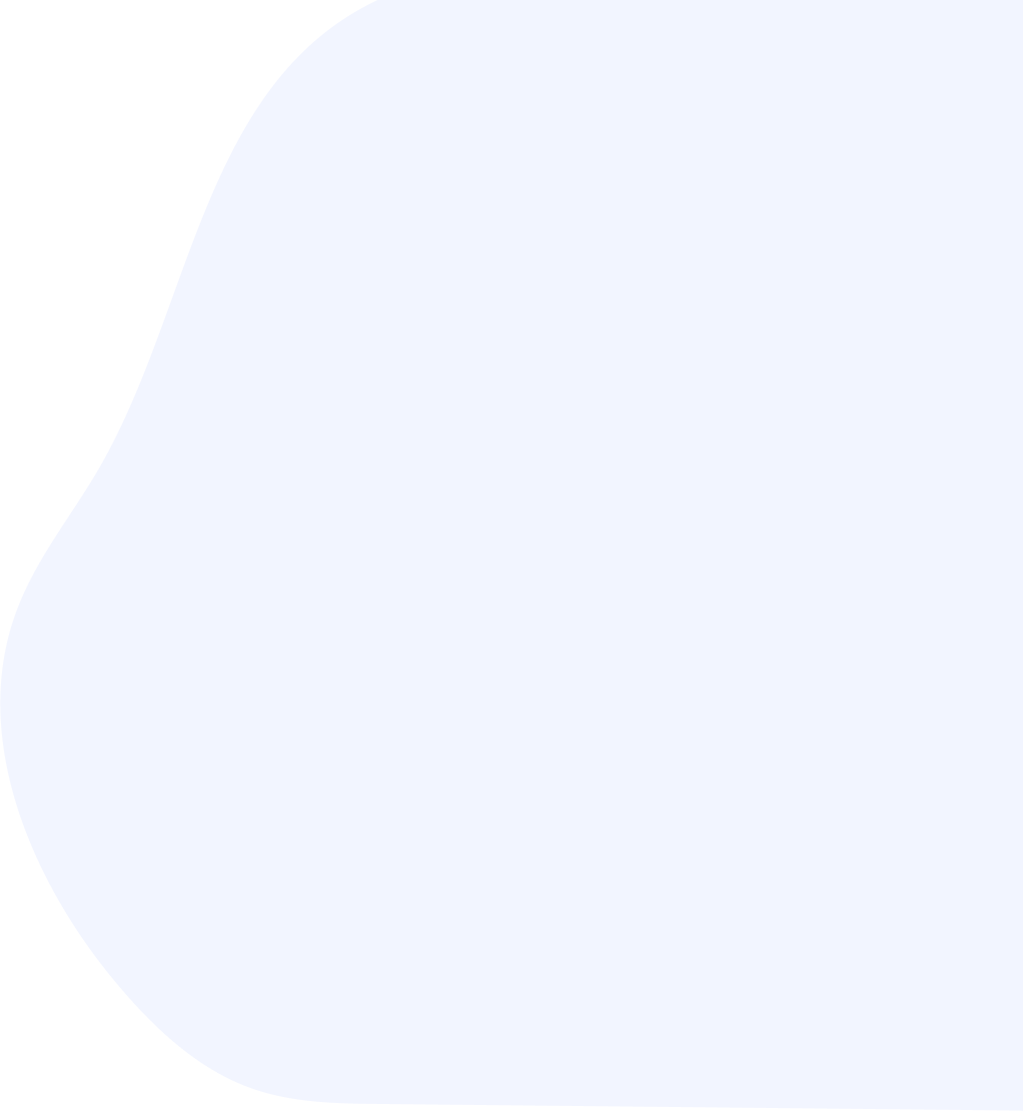
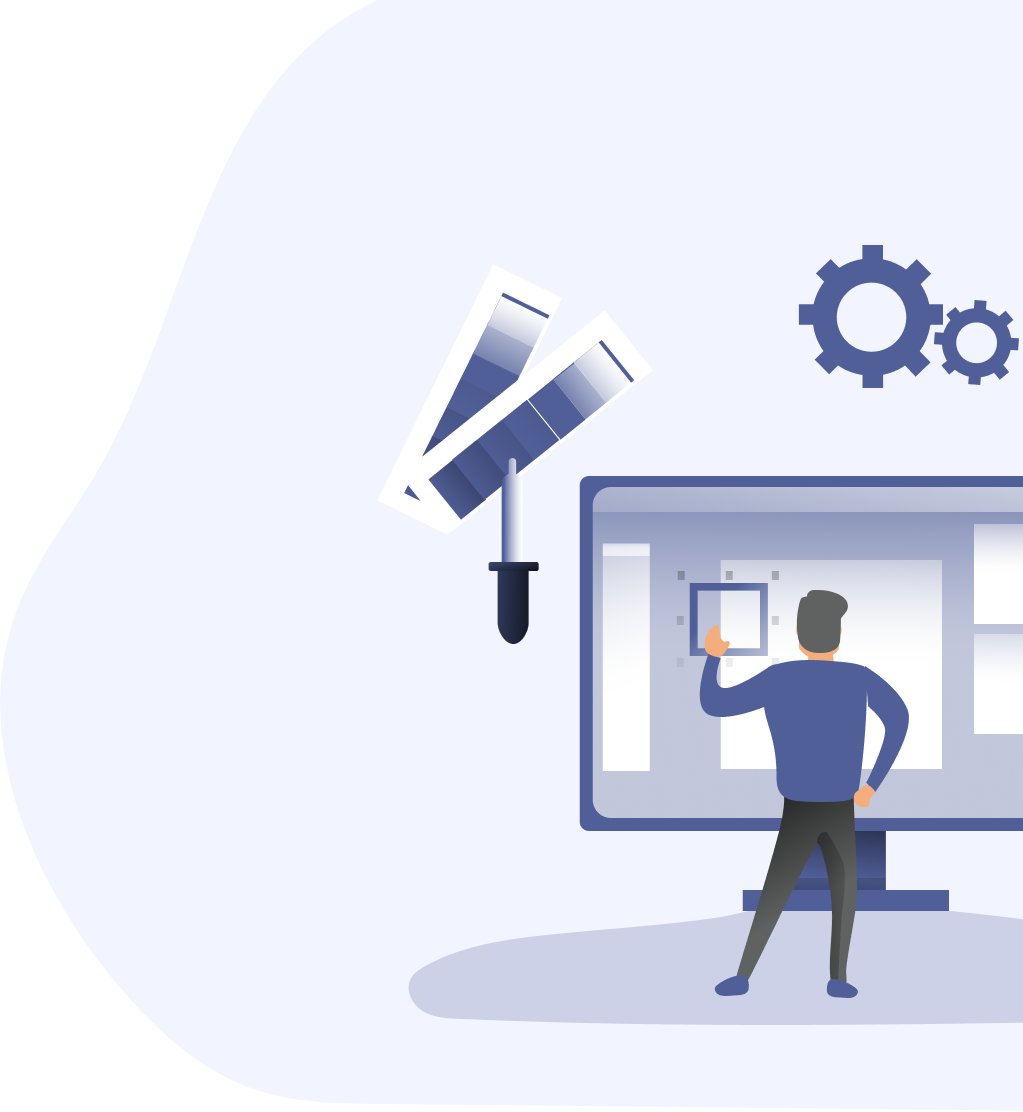
update on the section one and public section

Changed region(s): [[0.3939, 0.2446, 1.0, 0.9478], [0.7576, 0.214, 1.0, 0.3669]]

diff --git a/src/Components/Section1.jsx b/src/Components/Section1.jsx
@@ -3,7 +3,7 @@ import React from 'react'
 const Section1 = () => {
   return (
     <>
-    <section>
+    <section className='sec-1'>
         <div className="txt m-14">
             <h1 className='font-medium text-3xl'>
             Light, Fast & Powerful
@@ -12,9 +12,30 @@ const Section1 = () => {
             Lorem ipsum dolor sit amet, consectetuer adipiscing elit. Aenean commodo
             <br /> ligula eget dolor. Aenean massa. Cum sociis natoque penatibus et magnis
             <br /> dis parturient montes, nascetur ridiculus <br /> 
-mus. Donec quam felis, ultricies nec, pellentesque eu, pretium quis, sem.
-<br /> Nulla consequat massa quis enim.
+              mus. Donec quam felis, ultricies nec, pellentesque eu, pretium quis, sem.
+              <br /> Nulla consequat massa quis enim.
             </h4>
+        </div>
+        <div className="icon-grp mt-4 m-14 ">
+          <div className="grp flex space-x-10">
+          <div className="one">
+            <img src='Left.png' />
+            <span>
+              <b>Title Goes Here</b><br />
+              <small>Lorem ipsum dolor sit amet, consectetuer <br />
+               adipiscing elit. Aenean commodo ligula eget <br /> dolor. </small>
+            </span>
+          </div>
+
+          <div className="one">
+            <img src='Left.png' />
+            <span>
+              <b>Title Goes Here</b><br />
+              <small>Lorem ipsum dolor sit amet, consectetuer <br />
+               adipiscing elit. Aenean commodo ligula eget <br /> dolor. </small>
+            </span>
+          </div>
+          </div>
         </div>
     </section>
     </>

diff --git a/dist/output.css b/dist/output.css
@@ -1344,6 +1344,12 @@ video {
   justify-items: stretch;
 }
 
+.space-x-10 > :not([hidden]) ~ :not([hidden]) {
+  --tw-space-x-reverse: 0;
+  margin-right: calc(2.5rem * var(--tw-space-x-reverse));
+  margin-left: calc(2.5rem * calc(1 - var(--tw-space-x-reverse)));
+}
+
 .space-x-2 > :not([hidden]) ~ :not([hidden]) {
   --tw-space-x-reverse: 0;
   margin-right: calc(0.5rem * var(--tw-space-x-reverse));
@@ -1903,6 +1909,10 @@ video {
   padding: 0.25rem;
 }
 
+.p-14 {
+  padding: 3.5rem;
+}
+
 .p-4 {
   padding: 1rem;
 }
@@ -2435,8 +2445,26 @@ video {
 
 header {
   background: url(Path.png);
-  background-size: 60%;
-  height: 40vh;
+  background-size: 70%;
+  -o-object-fit: cover;
+     object-fit: cover;
+  -o-object-position: right;
+     object-position: right;
+  height: 50vh;
+  background-repeat: no-repeat;
+  width: 100%;
+  background-position-x: right;
+  background-position-y: center;
+}
+
+.sec-1 {
+  background: url(mobile.png);
+  background-size: 40%;
+  -o-object-fit: cover;
+     object-fit: cover;
+  -o-object-position: right;
+     object-position: right;
+  height: 50vh;
   background-repeat: no-repeat;
   width: 100%;
   background-position-x: right;

diff --git a/src/App.css b/src/App.css
@@ -4,8 +4,21 @@
 
 header {
     background: url(Path.png);
-    background-size: 60%;
-    height: 40vh;
+    background-size: 70%;
+    object-fit: cover;
+    object-position: right;
+    height: 50vh;
+    background-repeat: no-repeat;
+    width: 100%;
+    background-position-x: right;
+    background-position-y: center;
+}
+.sec-1 {
+    background: url(mobile.png);
+    background-size: 40%;
+    object-fit: cover;
+    object-position: right;
+    height: 50vh;
     background-repeat: no-repeat;
     width: 100%;
     background-position-x: right;

diff --git a/src/Components/Hero.jsx b/src/Components/Hero.jsx
@@ -4,7 +4,7 @@ const Hero = () => {
   return (
     <>
     <header>
-        <div className="txt m-14">
+        <div className="txt p-14">
         <h1 className='font-black text-3xl'>
             Introduce Your Product <br /> Quickly & Effectively</h1>
             <h4 className='mt-4'>Lorem ipsum dolor sit amet, consectetuer adipiscing elit. Aenean <br /> 

diff --git a/src/App.jsx b/src/App.jsx
@@ -2,11 +2,13 @@ import { useState } from 'react'
 import '../dist/output.css'
 import { BrowserRouter, Routes, Route } from 'react-router-dom'
 import Home from './Pages/Home'
+import Navigation from './Components/Navigation'
 
 function App() {
 
   return (
     <>
+    <Navigation />
     <Home />
     </>
   )

diff --git a/src/Pages/Home.jsx b/src/Pages/Home.jsx
@@ -6,7 +6,6 @@ import Section1 from '../Components/Section1'
 const Home = () => {
   return (
     <>
-    <Navigation />
     <Hero />
     <Section1 />
     </>
